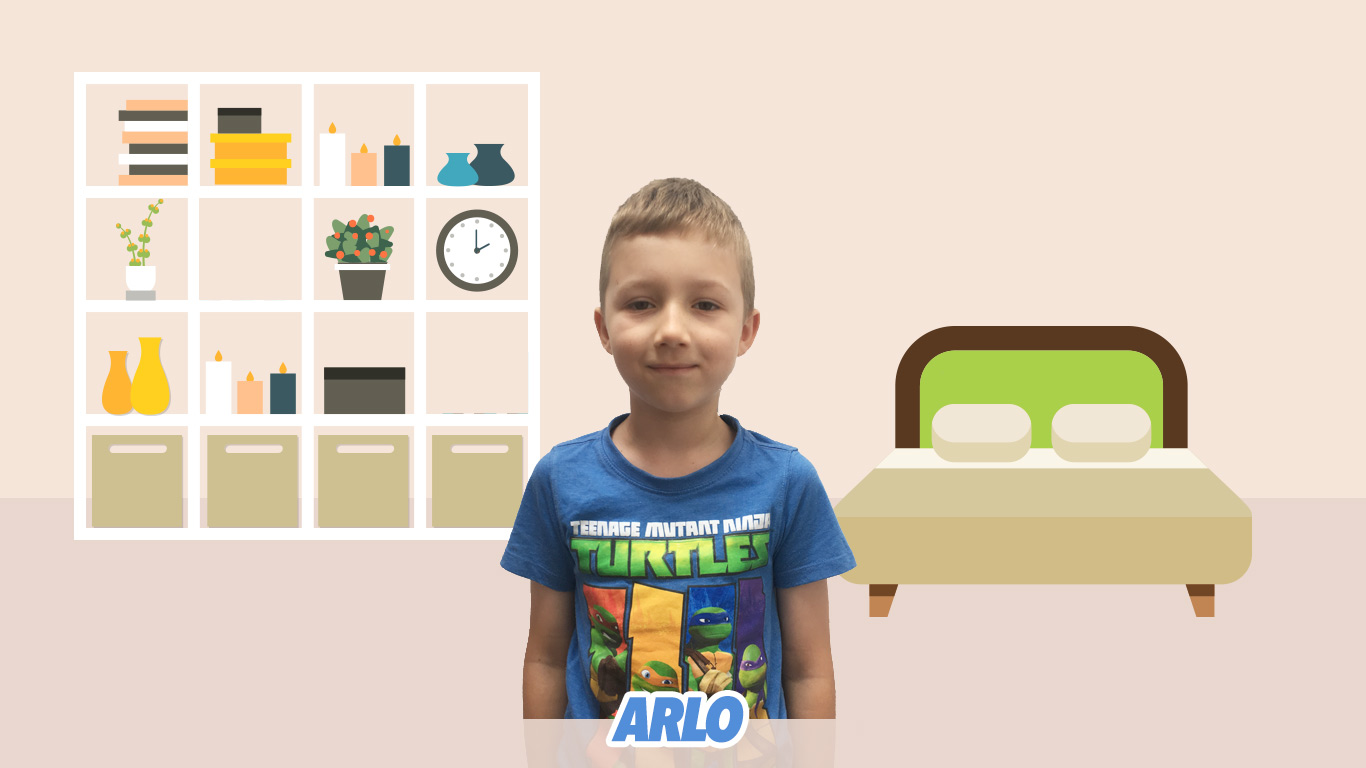
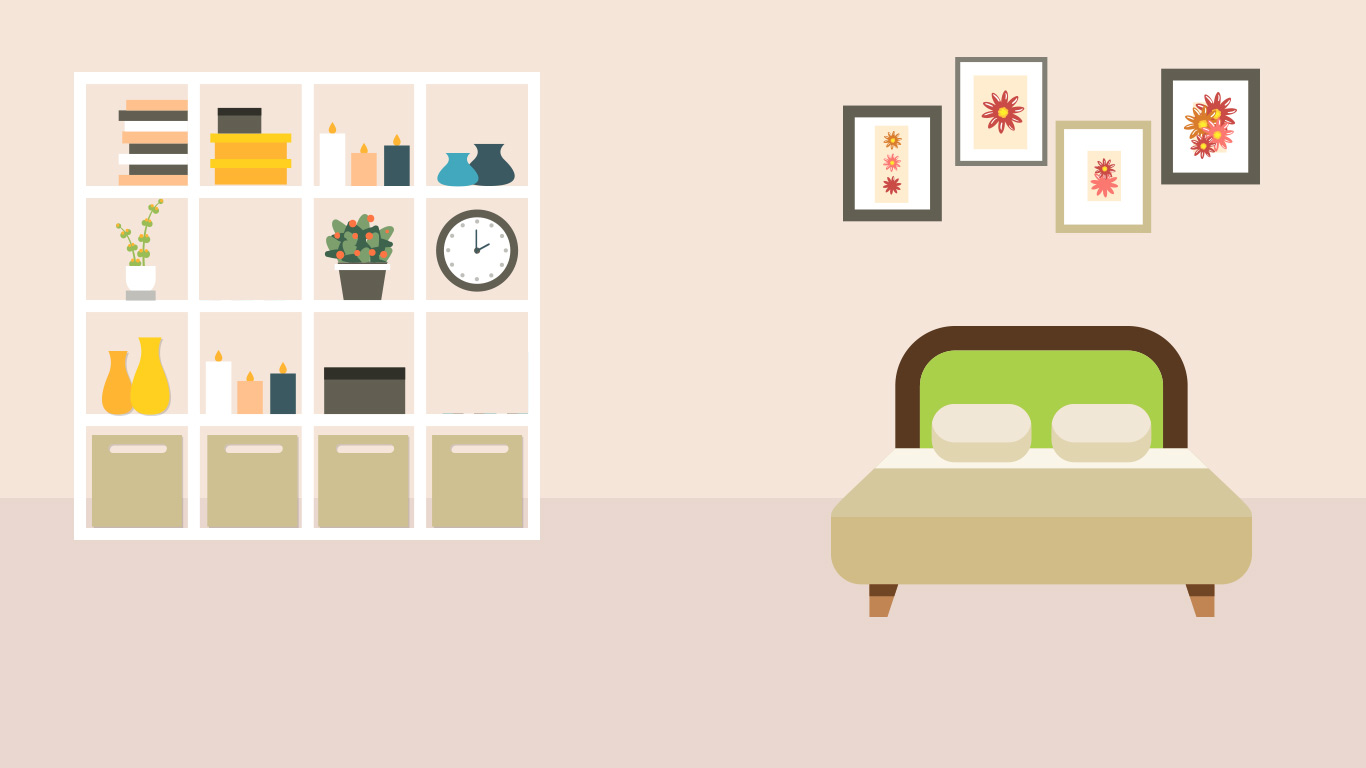
add stuff

Changed region(s): [[0.369, 0.2188, 0.6457, 1.0], [0.6149, 0.0625, 0.9224, 0.3125]]

diff --git a/src/states/Main.js b/src/states/Main.js
@@ -1,6 +1,8 @@
 import Phaser from 'phaser';
+import chunk from 'lodash/chunk';
+import map from 'lodash/map';
 import 'gsap';
-// import { SwipeCarousel } from 'phaser-list-view';
+import { ListView } from 'phaser-list-view';
 
 const { TweenMax, TimelineMax, Linear, PIXI } = window;
 
@@ -11,23 +13,18 @@ const Debug = {
 };
 
 export default class extends Phaser.State {
-  preload() {
-    this.load.image('shrek2', '/shrek2.jpg');
-  }
-
   create() {
     this.initSounds();
-
     window.fetch('/config.json').then(res => res.json()).then((json) => {
-      console.log('hi json', json);
+      this.config = json;
+      this.config.photos.forEach((photo, i) => {
+        this.load.image(`photo${i + 1}`, photo);
+      });
+      this.load.onLoadComplete.addOnce(() => {
+        this.createGame();
+      });
+      this.load.start();
     });
-    const main = this.add.image(0, 0, 'main');
-
-    const dvds = this.add.button(200, 190, 'sprites', this.handleDvdsClick, this, 'dvds_selected', 'dvds', 'dvds_selected', 'dvds');
-
-    const books = this.add.button(428, 338, 'sprites', this.handleBooksClick, this, 'books_selected', 'books', 'books_selected', 'books');
-
-    this.addCircles();
 
     if (Debug.config.fps) {
       this.game.time.advancedTiming = true;
@@ -42,12 +39,93 @@ export default class extends Phaser.State {
     super.create();
   }
 
-  handleBooksClick() {
+  createGame() {
+    const main = this.add.image(0, 0, 'main');
 
+    const arlo = this.add.image(this.world.centerX, this.world.height, 'arlo');
+    arlo.anchor.set(0.5, 1);
+
+    this.addPhotos();
+
+    const dvds = this.add.button(200, 190, 'sprites', this.handleDvdsClick, this, 'dvds_selected', 'dvds', 'dvds_selected', 'dvds');
+    const books = this.add.button(428, 338, 'sprites', this.handleBooksClick, this, 'books_selected', 'books', 'books_selected', 'books');
+    const toys = this.add.button(1000, 380, 'sprites', this.handleToysClick, this, 'toys_selected', 'toys', 'toys_selected', 'toys');
+  }
+
+  addPhotos() {
+    const positions = [
+      { x: 892, y: 163 },
+      { x: 1001, y: 111 },
+      { x: 1103, y: 176 },
+      { x: 1210, y: 130 },
+    ];
+
+    const maxWidth = 75;
+    const maxHeight = 92;
+    for (let i = 0; i < 4; i++) {
+      const { x, y } = positions[i];
+      const img = this.add.image(x, y, `photo${i + 1}`);
+      img.width = maxWidth;
+      img.scale.y = img.scale.x;
+      if (img.height > maxHeight) {
+        img.height = maxHeight;
+        img.scale.x = img.scale.y;
+      }
+      img.anchor.set(0.5);
+    }
+  }
+
+  handleBooksClick() {
+    this.loadImages(this.config.books);
   }
 
   handleDvdsClick() {
-    this.add.image(0, 0, 'shrek2');
+    this.loadImages(this.config.dvds);
+  }
+
+  handleToysClick() {
+    this.loadImages(this.config.toys);
+  }
+
+  loadImages(data) {
+    data.forEach((item) => {
+      this.game.load.image(item.name, item.imageUri);
+    });
+    this.game.load.onLoadComplete.addOnce(() => {
+      this.createGrid(data);
+    });
+    this.game.load.start();
+  }
+
+  createGrid(data) {
+    const maxWidth = 250;
+    const maxHeight = 250;
+    const padding = 10;
+    const numColumns = 5;
+    const rows = chunk(data, numColumns);
+    const listView = new ListView(
+      this.game,
+      this.world,
+      new Phaser.Rectangle(0, 0, this.world.width, this.world.height),
+      { padding: 20 },
+    );
+    rows.forEach((row, j) => {
+      const rowGrp = this.add.group();
+      row.forEach((dvd, i) => {
+        const img = this.add.image(i * (maxWidth + padding) + 165, 160, dvd.name, null, rowGrp);
+        img.width = maxWidth;
+        img.scale.y = img.scale.x;
+        if (img.height > maxHeight) {
+          img.height = maxHeight;
+          img.scale.x = img.scale.y;
+        }
+        img.anchor.set(0.5);
+        const tl = new TimelineMax({ delay: j * 0.5 + i * 0.1 });
+        tl.from(img, 1, { rotation: 1, y: '+=200', ease: Strong.easeOut, alpha: 0 });
+          // .from(img.scale, 1, { x: 0.5, y: 0.5, ease: Strong.easeOut }, 0);
+      });
+      listView.add(rowGrp);
+    });
   }
 
   addCircles() {

diff --git a/template.html b/template.html
@@ -6,20 +6,10 @@
         <meta http-equiv="X-UA-Compatible" content="IE=edge" />
         <meta name="apple-mobile-web-app-capable" content="yes">
         <meta name="mobile-web-app-capable" content="yes">
-        <meta name="apple-mobile-web-app-title" content="PlayChip Slots">
-        <meta property="application-name" content="PlayChip Slots">
-        <meta property="og:url" content="https://playchipslots.playup.com">
-        <meta property="og:title" content="PlayChip Slots">
-        <meta property="og:description" content="Play the slots, win the chips">
-        <meta property="og:image" content="https://playchipslots.playup.com/ogimage.jpg">
-        <meta property="og:image:width" content="600" />
-        <meta property="og:image:height" content="315" />
-        <link rel="apple-touch-icon" sizes="180x180" type="image/png" href="/apple-touch-icon.png">
-        <link rel="icon" sizes="32x32" type="image/png" href="/favicon-32x32.png">
-        <link rel="icon" sizes="16x16" type="image/png" href="/favicon-16x16.png">
-        <title>PlayChip Slots</title>
-        <meta name="description" content="Play the slots, win the chips!">
-        <meta name="keywords" content="playchip">
+        <meta name="apple-mobile-web-app-title" content="Arlo">
+        <meta property="application-name" content="Arlo">
+        <title>Arlo</title>
+        <meta name="keywords" content="arlo">
         <base href="/"/>
 
         <style>

diff --git a/webpack.config.js b/webpack.config.js
@@ -18,10 +18,6 @@ module.exports = {
     new CopyWebpackPlugin(
       [
         {
-          from: 'static',
-          to: path.resolve(__dirname, 'public'),
-        },
-        {
           from: path.resolve(__dirname, 'node_modules/phaser/build/phaser.min.js'),
           to: path.resolve(__dirname, 'public'),
         },

diff --git a/src/states/Boot.js b/src/states/Boot.js
@@ -10,7 +10,7 @@ const MANIFEST = {
   audio: [
   ],
   spritesheets: ['sprites'],
-  images: ['main'],
+  images: ['main', 'arlo'],
   bitmap_fonts: [],
   fonts: {
     custom: {
